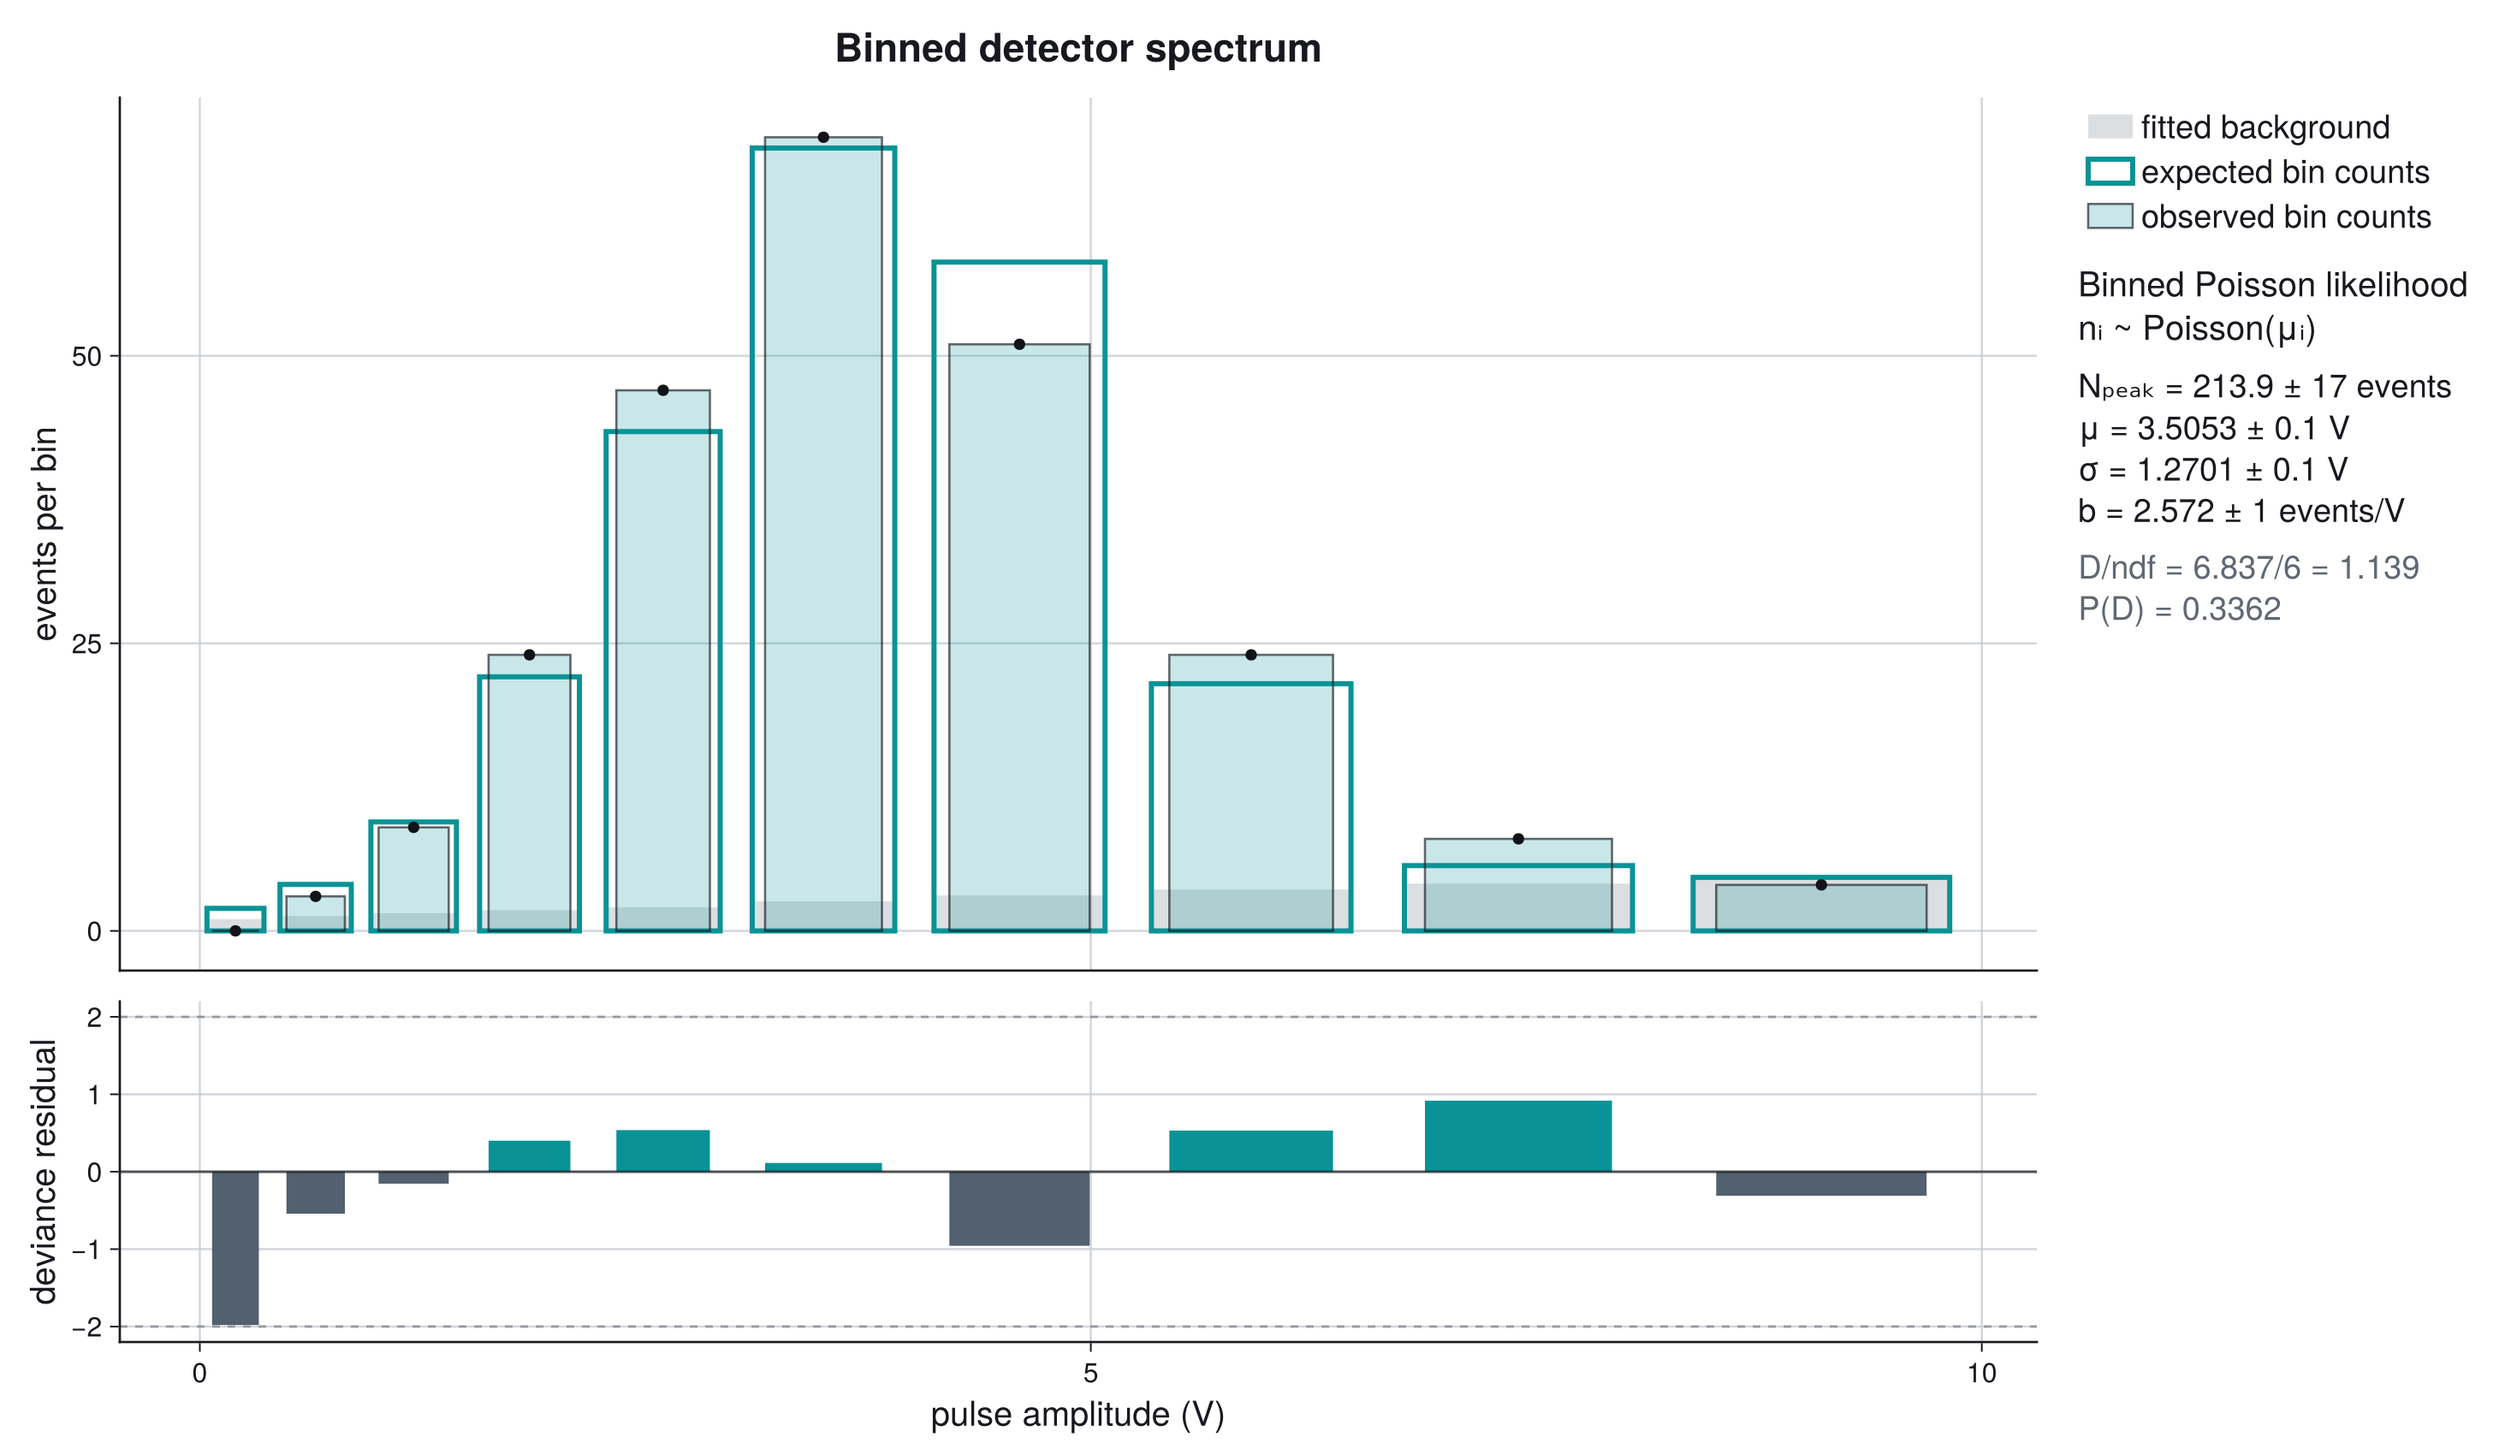
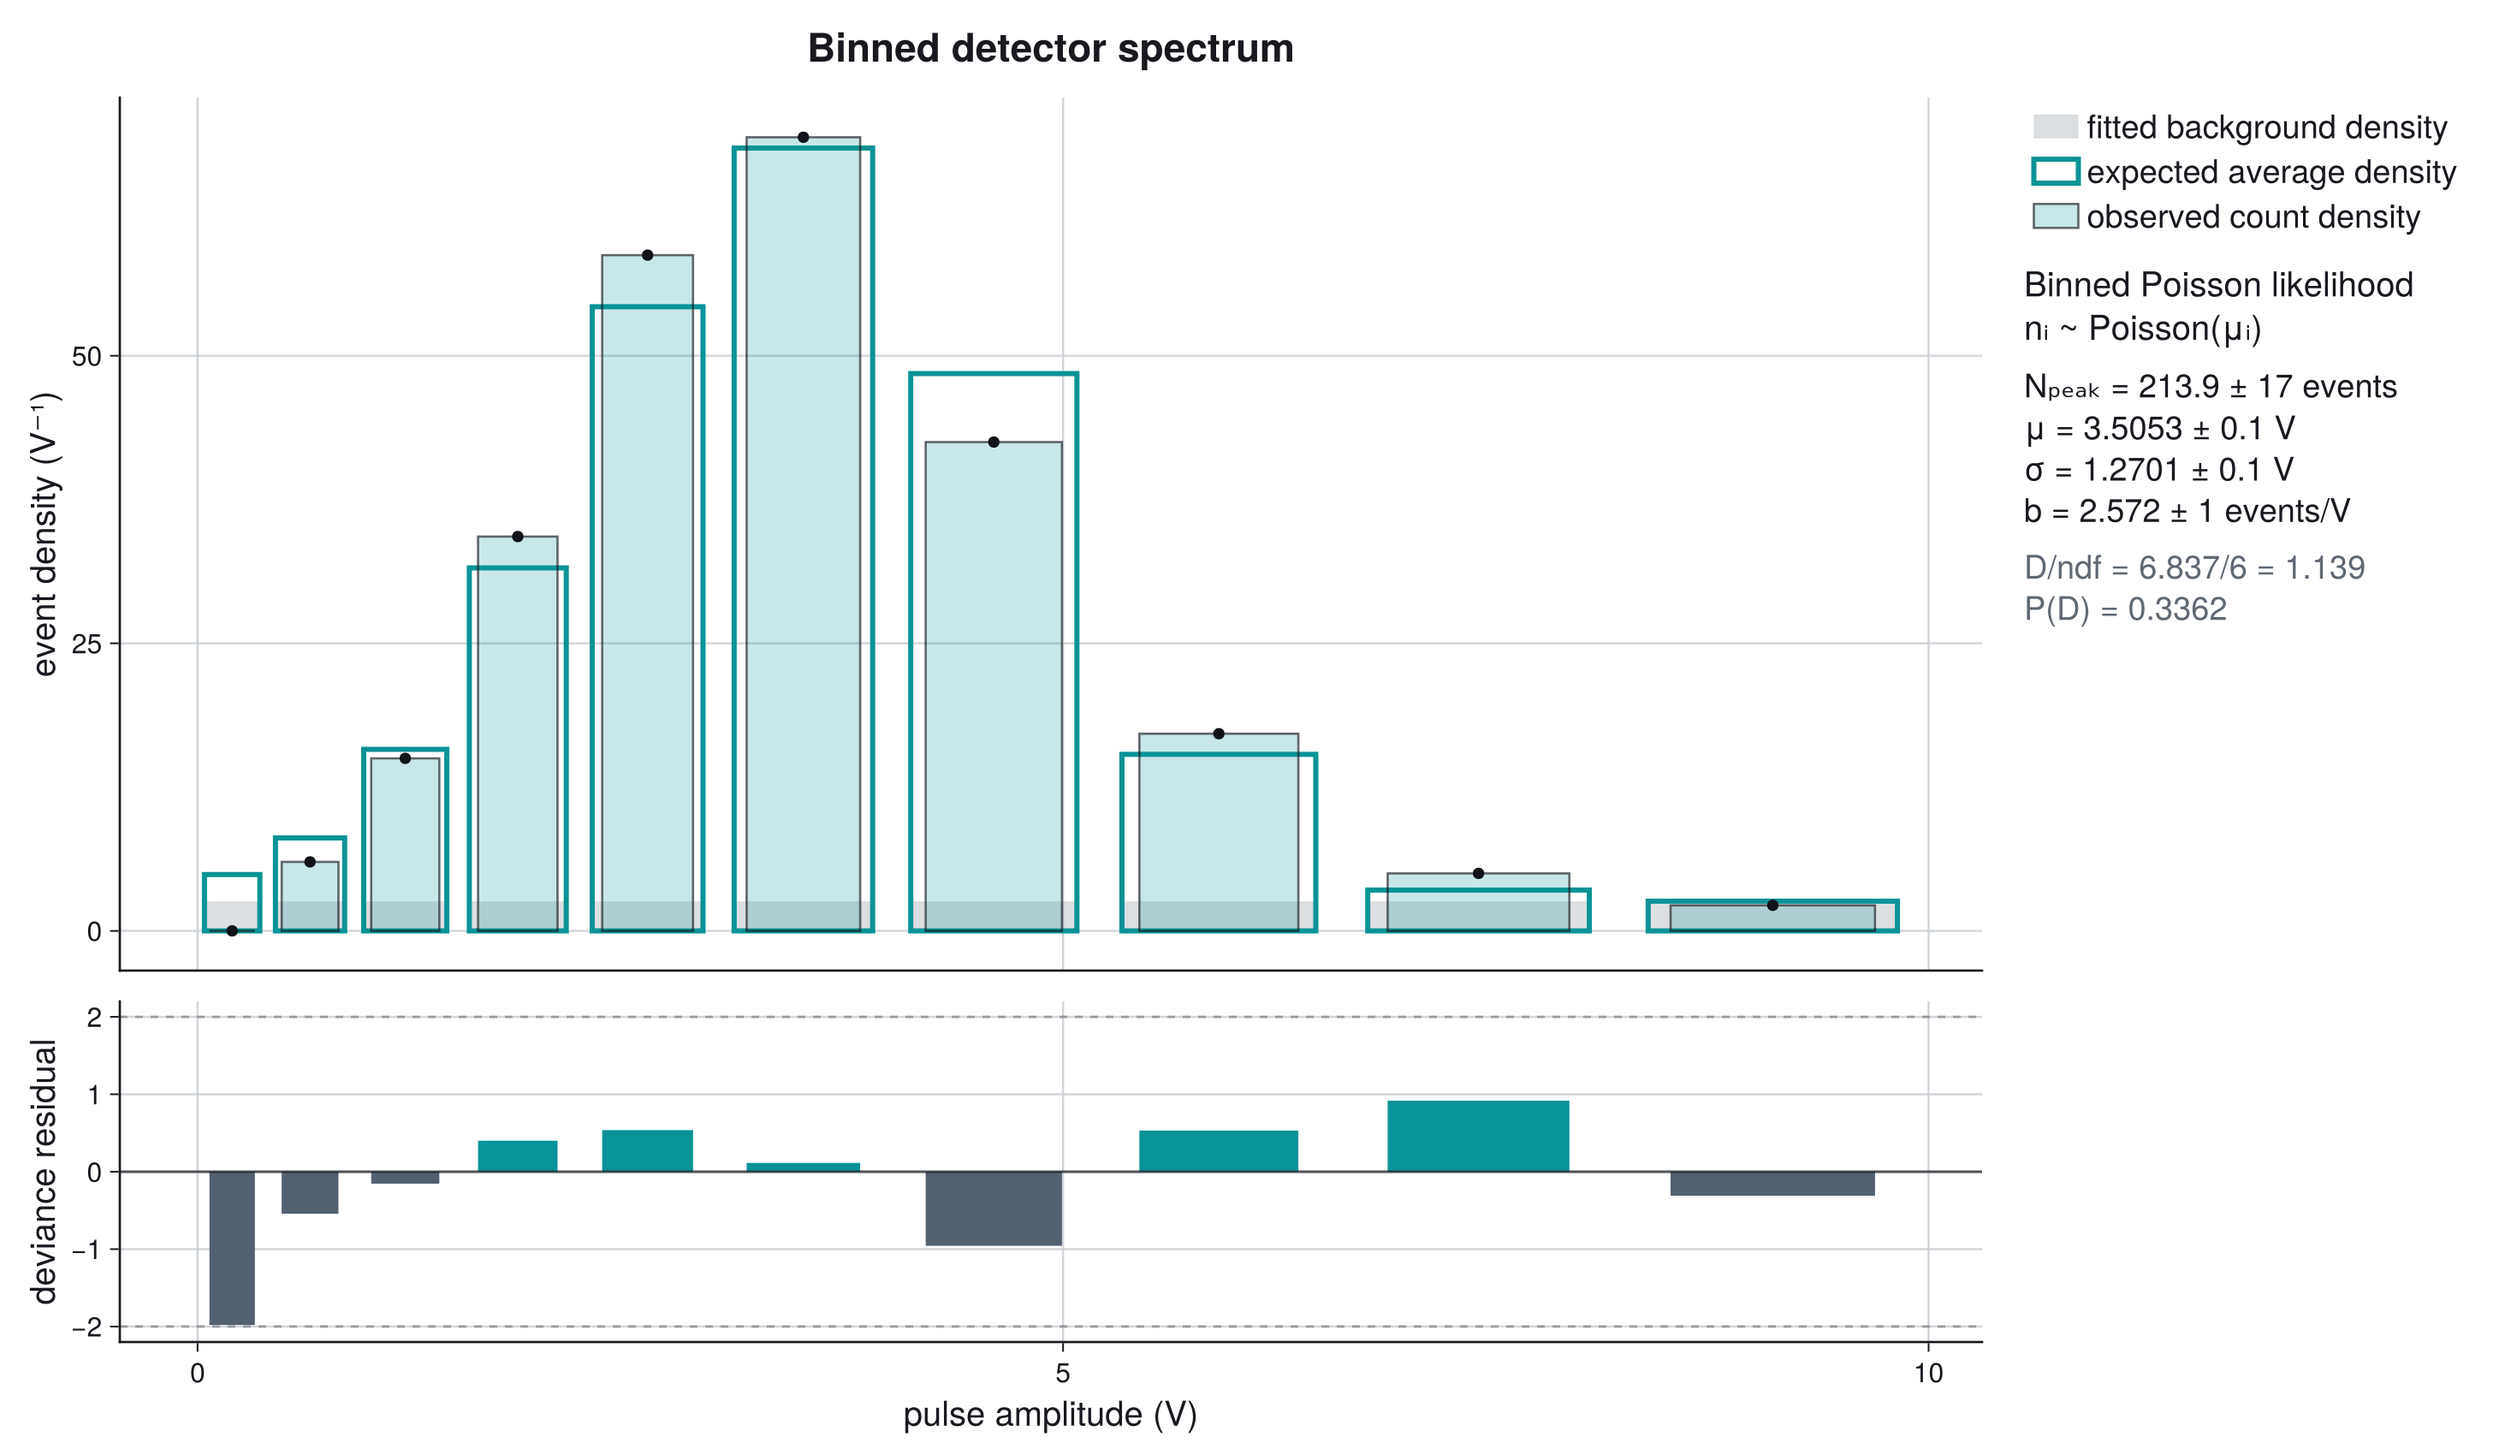
Audit Poisson and histogram workflows

diff --git a/docs/src/gallery/poisson_histogram.md b/docs/src/gallery/poisson_histogram.md
@@ -7,9 +7,9 @@ windows and a pulse-height spectrum collected in unequal bins.
 
 ## Question One: What Is The Half-Life?
 
-A detector records the number of events in a 10-second acquisition window once
-per minute. The source activity decays, but the detector also sees an
-approximately constant background:
+The first controlled record represents a detector that counts events in a
+10-second acquisition window once per minute. The source activity decays, but
+the detector also sees an approximately constant background:
 
 ```math
 \mu(t) = S_0 e^{-\lambda t} + B.
@@ -42,10 +42,12 @@ parameter uncertainty.
 
 ## Data
 
-The count arrays are listed explicitly in the fit sections. The first dataset is
-a short radioactive-decay count series with a low-count tail. The second is an
-unequally binned pulse-height spectrum with one empty bin. Both features are
-intentional: they are exactly where Gaussian error-bar shortcuts become
+The count arrays are listed explicitly in the fit sections. They are controlled
+teaching records, not measurements attributed to a particular isotope or
+detector campaign. No hidden random generator is involved: the listed integers
+are the complete input. The first series has a low-count tail; the second is an
+unequally binned pulse-height spectrum with one empty bin. Those features are
+intentional because they expose where Gaussian error-bar shortcuts become
 misleading.
 
 A one-bin sanity check shows why this matters. If the model predicts
@@ -66,6 +68,12 @@ For independent counts,
 ```math
 n_i \sim \operatorname{Poisson}(\mu_i).
 ```
+
+This statement carries experimental assumptions. Acquisition windows must be
+disjoint, events independent, exposure and efficiency known, and the background
+stable. Substantial dead time, pile-up, clustering, or an unmodelled exposure
+change breaks the model. If exposure differs between windows, that exposure
+belongs inside each ``\mu_i`` rather than in an after-the-fact rescaling.
 
 `fit_poisson_model` minimizes twice the negative log-likelihood:
 
@@ -119,6 +127,7 @@ experiment.
 
 ```julia
 using JuFitter
+using Printf
 
 time_min = collect(0.0:1.0:18.0)
 counts = [
@@ -147,18 +156,21 @@ sigma_lambda = decay_result.param_stderr[2]
 half_life = log(2) / lambda
 sigma_half_life = log(2) * sigma_lambda / lambda^2
 
-println("half-life = ", half_life, " +/- ", sigma_half_life, " min")
-println("deviance/ndf = ", decay_result.stats.chi2_ndf)
-println("P(D) = ", decay_result.stats.pvalue)
+@printf("half-life = %.3f +/- %.3f min\n", half_life, sigma_half_life)
+@printf("background = %.3f +/- %.3f counts per 10 s\n",
+        decay_result.params[3], decay_result.param_stderr[3])
+@printf("deviance/ndf = %.3f\n", decay_result.stats.chi2_ndf)
+@printf("P(D) = %.3f\n", decay_result.stats.pvalue)
 println(diagnostic_dashboard_text(decay_result))
 ```
 
 ```@raw html
 <div class="jufitter-cell-output">
 <div class="jufitter-cell-output-label">Real output (abridged)</div>
-<pre>half-life = 4.234427509199143 +/- 0.862970344023104 min
-deviance/ndf = 1.0149737171631132
-P(D) = 0.43636863300559847
+<pre>half-life = 4.234 +/- 0.863 min
+background = 0.792 +/- 2.189 counts per 10 s
+deviance/ndf = 1.015
+P(D) = 0.436
 
 Fit diagnostic dashboard
 status = ok - no immediate issue
@@ -182,12 +194,14 @@ The result is approximately
 T_{1/2} = 4.23 \pm 0.86\ \mathrm{min}.
 ```
 
-The fitted background is weakly constrained because the acquisition ends with
-only a few low-count windows. Its local symmetric error extends below the
-physical positivity bound, so it should not be reported as the final background
-interval. Inspect a profile and report an asymmetric interval or upper limit in
-a critical analysis. A longer background-only acquisition would improve the
-separation between the decaying signal and detector background.
+The fitted background is ``0.792\pm2.189`` counts per window in the local
+quadratic approximation. That symmetric interval extends below the physical
+positivity bound because the acquisition ends with only a few low-count
+windows. It should not be reported as the final background interval. A profile
+scan asks how far the background can move while the signal parameters are
+refitted; if the lower threshold is cut off by zero, report an asymmetric
+interval or a one-sided upper limit. A longer background-only acquisition would
+separate source and detector background more directly.
 
 The half-life uncertainty above is first-order propagation of the local
 ``\lambda`` covariance. Transform a profile interval for ``\lambda`` when the
@@ -233,10 +247,17 @@ Integrating the model is essential when bins have different widths or the
 density changes significantly across a bin. Evaluating only at bin centers can
 bias the peak position, width, and yield.
 
+The likelihood uses the integrated counts ``\mu_i`` exactly as written above.
+For display only, the upper panel divides observed and expected counts by each
+bin width. The resulting bar area still equals the bin count, while a uniform
+background appears flat instead of becoming artificially taller in wider bins.
+The lower-panel deviance residuals continue to use the original integer counts.
+
 ## Complete Histogram Fit
 
 ```julia
 using JuFitter
+using Printf
 using SpecialFunctions
 
 edges = [0.0, 0.4, 0.9, 1.5, 2.2, 3.0, 4.0, 5.2, 6.6, 8.2, 10.0]
@@ -267,19 +288,28 @@ spectrum_result = fit_histogram_model(
     ],
 )
 
-println("centroid = ", spectrum_result.params[2],
-        " +/- ", spectrum_result.param_stderr[2], " V")
-println("deviance/ndf = ", spectrum_result.stats.chi2_ndf)
-println("P(D) = ", spectrum_result.stats.pvalue)
+@printf("peak yield = %.1f +/- %.1f events\n",
+        spectrum_result.params[1], spectrum_result.param_stderr[1])
+@printf("centroid = %.3f +/- %.3f V\n",
+        spectrum_result.params[2], spectrum_result.param_stderr[2])
+@printf("width = %.3f +/- %.3f V\n",
+        spectrum_result.params[3], spectrum_result.param_stderr[3])
+@printf("background density = %.3f +/- %.3f events/V\n",
+        spectrum_result.params[4], spectrum_result.param_stderr[4])
+@printf("deviance/ndf = %.3f\n", spectrum_result.stats.chi2_ndf)
+@printf("P(D) = %.3f\n", spectrum_result.stats.pvalue)
 println(diagnostic_dashboard_text(spectrum_result))
 ```
 
 ```@raw html
 <div class="jufitter-cell-output">
 <div class="jufitter-cell-output-label">Real output (abridged)</div>
-<pre>centroid = 3.5052733326011354 +/- 0.10294632833399764 V
-deviance/ndf = 1.1394503306696233
-P(D) = 0.336213402280547
+<pre>peak yield = 213.9 +/- 17.3 events
+centroid = 3.505 +/- 0.103 V
+width = 1.270 +/- 0.100 V
+background density = 2.572 +/- 1.035 events/V
+deviance/ndf = 1.139
+P(D) = 0.336
 
 Fit diagnostic dashboard
 status = ok - no immediate issue

diff --git a/RELEASE_AUDIT.md b/RELEASE_AUDIT.md
@@ -103,6 +103,19 @@ Local commits on `codex/*` branches are allowed only as reviewable checkpoints.
   `plot_info_panel!` layout contract as ordinary fit plots. Ordinary layouts do
   not guess fixed side-panel widths or resize the figure around compact report
   content; explicit fixed widths remain an opt-in export control.
+- The Poisson-and-histogram gallery now identifies both arrays as controlled
+  teaching records rather than implying undocumented experimental provenance.
+  It states the independence, exposure, efficiency, background, dead-time, and
+  pile-up assumptions behind the Poisson model. Unequal histogram bins are fit
+  with integrated expected counts but displayed as count density, so bar area
+  still represents counts and a uniform fitted background remains visually
+  flat. The real terminal output is compact and snapshot-checked. The public
+  likelihood example now loads CairoMakie before calling `plot_profile` and
+  executes to completion. The constraints example does the same and qualifies
+  `JuFitter.contour` to avoid the Makie export collision; its fit, profile,
+  interval, contour matrix, and both plot exports execute to completion.
+  Tracked gallery regeneration requires the explicit maintainer flag and can be
+  limited to one asset group instead of recomputing unrelated profile matrices.
 - `git diff --check` passes for the current release-hardening branch.
 - `julia --project=. --startup-file=no -e 'include("test/torture_runtests.jl")'`
   passes with 79 torture checks in about 1m38s on the local machine. Three
@@ -171,7 +184,7 @@ Local commits on `codex/*` branches are allowed only as reviewable checkpoints.
 - `julia --project=docs --startup-file=no docs/make.jl` passes locally. The
   build output is ignored and must not be committed.
 - `julia --project=. --startup-file=no test/docs_gallery_gate.jl` passes with
-  265 checks. The gate enforces the current release standard for every public
+  273 checks. The gate enforces the current release standard for every public
   gallery page:
   scientific question, data context, model/cost explanation, complete Julia
   code, real diagnostic output, interpretation, failure modes, explicit

diff --git a/examples/README.md b/examples/README.md
@@ -21,7 +21,8 @@ Generated figures are written to `examples/output/`, which is ignored by git.
 - `08_damped_oscillator_decay.jl`: real damped-oscillator data, x/y
   uncertainties, constant-frequency versus frequency-drift model criticism,
   pull diagnostics, and a style-aware compound figure.
-- `09_docs_gallery_suite.jl`: generates the public documentation gallery assets.
+- `09_docs_gallery_suite.jl`: maintainer-only generator for tracked public
+  documentation assets.
 - `10_multi_dataset_calibration.jl`: tests full versus partial parameter
   sharing across three calibration channels with joint covariance propagation
   and per-dataset pull diagnostics.
@@ -37,6 +38,21 @@ documentation variants with:
 ```bash
 JUFITTER_RENDER_DOC_ASSETS=1 \
     julia --project=docs examples/gallery/08_damped_oscillator_decay.jl
+```
+
+Regenerate the remaining tracked gallery assets intentionally with:
+
+```bash
+JUFITTER_RENDER_DOC_ASSETS=1 \
+    julia --project=docs examples/gallery/09_docs_gallery_suite.jl
+```
+
+During a page-level review, restrict rendering to one named group, for example:
+
+```bash
+JUFITTER_RENDER_DOC_ASSETS=1 \
+JUFITTER_DOC_ASSET_GROUP=histogram_likelihood \
+    julia --project=docs examples/gallery/09_docs_gallery_suite.jl
 ```
 
 ## Python Interoperability
